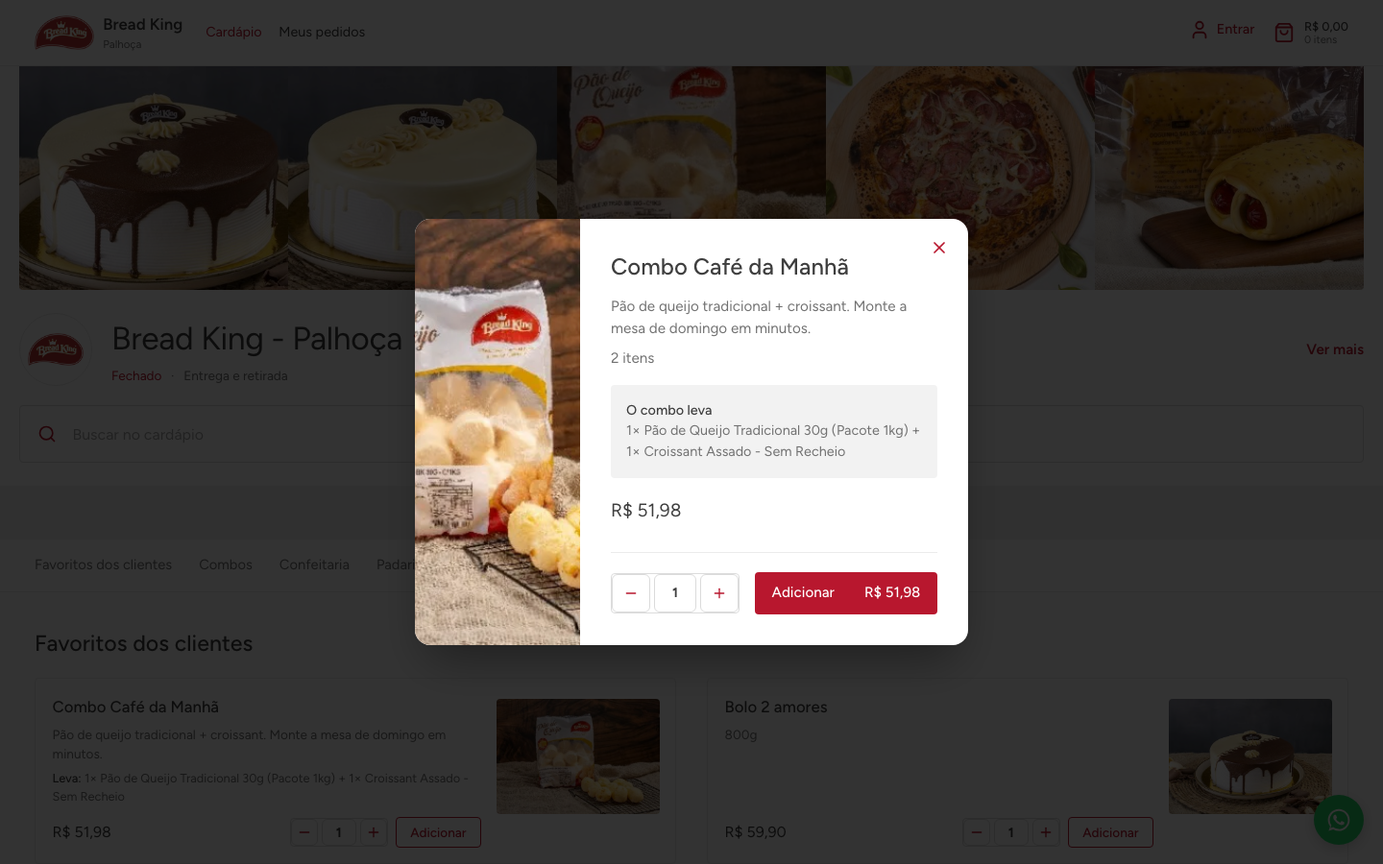
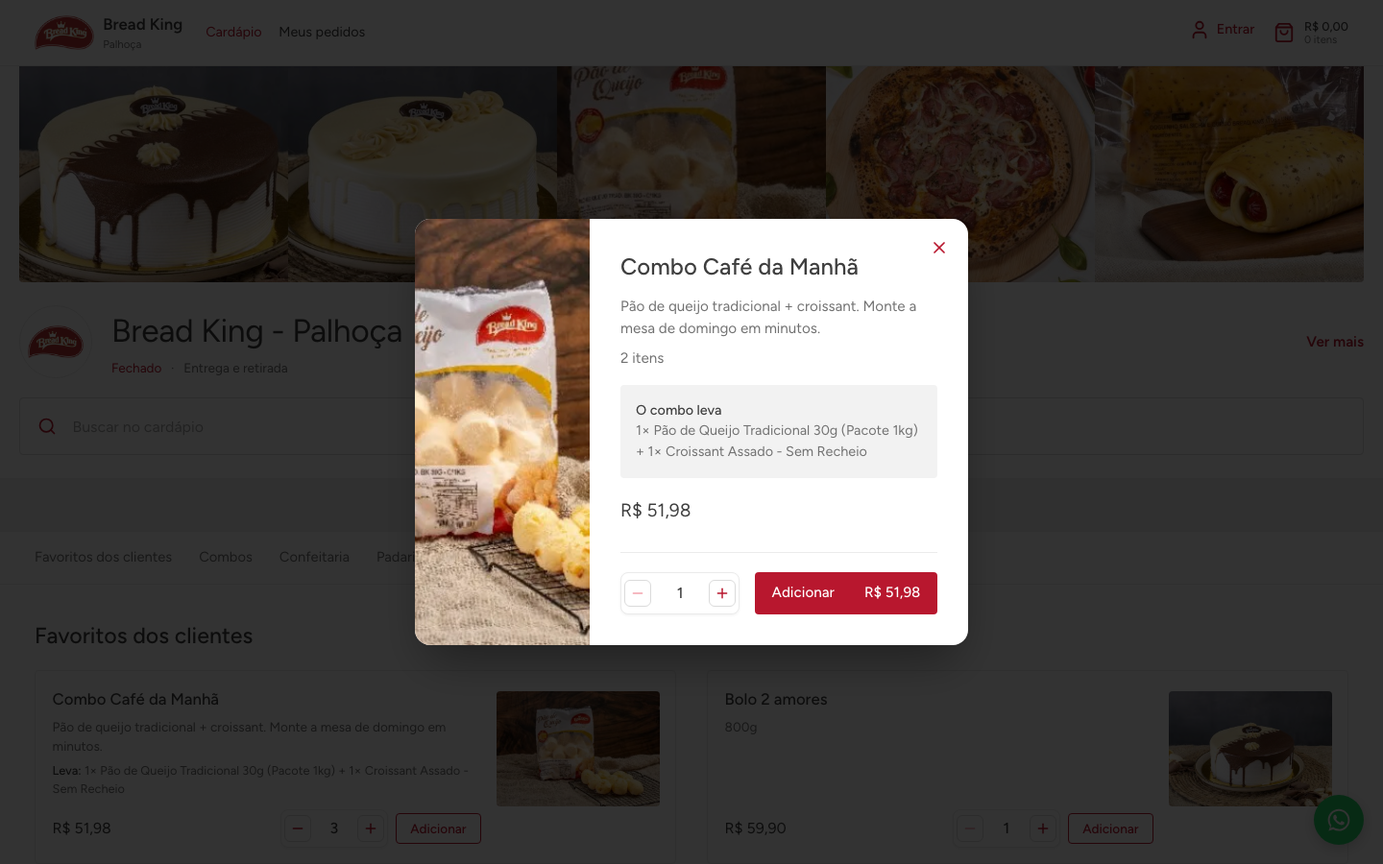
v1.7: sem pedido mínimo/estrela, stepper só com + e −, layout v2 vertical, pedido sem login com dados do cliente

diff --git a/site/js/cardapio.js b/site/js/cardapio.js
@@ -4,10 +4,20 @@
   const params = new URLSearchParams(location.search);
   const mini = (p) => p.imagem && p.imagem.startsWith("imagens/produtos/") ? p.imagem.replace("imagens/produtos/", "imagens/produtos/mini/").replace(/\.[a-z]+$/i, ".jpg") : p.imagem;
   const composicao = (p) => (p.combo && p.combo.length) ? p.combo.map((x) => { const q = BK.produto(x.id); return x.qtd + "× " + (q ? q.nome : x.id); }).join(" + ") : "";
-  const stepper = (id, v, cls) => '<div class="qtd-stepper ' + (cls || "") + '" data-stepper="' + id + '"><button type="button" aria-label="Diminuir" data-acao="menos">' + icone("minus", "h-4 w-4") + '</button><input type="number" min="1" max="99" value="' + v + '" aria-label="Quantidade" inputmode="numeric"/><button type="button" aria-label="Aumentar" data-acao="mais">' + icone("plus", "h-4 w-4") + "</button></div>";
-  const lerStepper = (el) => { const i = el.querySelector("input"); let v = Math.floor(Number(i.value) || 1); v = Math.max(1, Math.min(99, v)); i.value = v; return v; };
+  const stepper = (id, v, cls) => '<div class="qtd-stepper ' + (cls || "") + '" data-stepper="' + id + '"><button type="button" aria-label="Diminuir" data-acao="menos" class="' + (v <= 1 ? "min" : "") + '">' + icone("minus", "h-4 w-4") + '</button><span class="q" data-q="' + v + '">' + v + '</span><button type="button" aria-label="Aumentar" data-acao="mais">' + icone("plus", "h-4 w-4") + "</button></div>";
+  const lerStepper = (el) => Number(el.querySelector("[data-q]").dataset.q) || 1;
+  const setStepper = (el, v) => { v = Math.max(1, Math.min(99, v)); const s = el.querySelector("[data-q]"); s.dataset.q = v; s.textContent = v; el.querySelector('[data-acao="menos"]').classList.toggle("min", v <= 1); return v; };
+  let VERTICAL = false;
 
+  function cardVertical(p) {
+    const n = Carrinho.quantidade(p.id);
+    return '<article class="item-v" data-card="' + p.id + '"><img class="foto" alt="" loading="lazy" decoding="async" src="' + mini(p) + '" data-abrir="' + p.id + '" onerror="if(this.src.indexOf(\'/mini/\')>0){this.src=this.src.replace(\'/mini/\',\'/\');}else{imgFallback(this)}"/>' +
+      '<div class="texto"><h3 data-abrir="' + p.id + '">' + esc(p.nome) + "</h3>" + (p.descricao ? '<p class="desc" data-abrir="' + p.id + '">' + esc(p.descricao) + "</p>" : (p.peso ? '<p class="desc">' + esc(p.peso) + "</p>" : "")) + (composicao(p) ? '<p class="leva"><b>Leva:</b> ' + esc(composicao(p)) + "</p>" : "") +
+      '<div class="rodape"><span class="preco">' + moeda(p.preco).replace("\u00a0", " ") + '</span><span class="no-pedido' + (n ? "" : " hidden") + '" data-no-pedido="' + p.id + '">' + n + " no pedido</span></div>" +
+      '<div class="acoes">' + stepper(p.id, 1) + '<button type="button" class="btn-add" data-add="' + p.id + '">Adicionar</button></div></div></article>';
+  }
   function card(p) {
+    if (VERTICAL) return cardVertical(p);
     const n = Carrinho.quantidade(p.id);
     return '<article class="item" data-card="' + p.id + '"><div class="texto"><h3 data-abrir="' + p.id + '">' + esc(p.nome) + "</h3>" +
       (p.descricao ? '<p class="desc" data-abrir="' + p.id + '">' + esc(p.descricao) + "</p>" : (p.peso ? '<p class="desc">' + esc(p.peso) + "</p>" : "")) +
@@ -16,7 +26,7 @@
       '<span class="flex items-center gap-2">' + stepper(p.id, 1) + '<button type="button" class="btn-add" data-add="' + p.id + '">Adicionar</button></span></div></div>' +
       '<img class="foto" alt="" loading="lazy" decoding="async" src="' + mini(p) + '" data-abrir="' + p.id + '" onerror="if(this.src.indexOf(\'/mini/\')>0){this.src=this.src.replace(\'/mini/\',\'/\');}else{imgFallback(this)}"/></article>';
   }
-  const secao = (id, titulo, lista) => '<section class="secao scroll-mt-32" id="' + id + '" data-category="' + esc(titulo) + '"><h2>' + esc(titulo) + '</h2>' + (lista.length ? '<div class="grade">' + lista.map(card).join("") + "</div>" : '<p class="text-sm" style="color:var(--cinza)">Em breve nesta unidade.</p>') + "</section>";
+  const secao = (id, titulo, lista) => '<section class="secao scroll-mt-32" id="' + id + '" data-category="' + esc(titulo) + '"><h2>' + esc(titulo) + '</h2>' + (lista.length ? '<div class="' + (VERTICAL ? "grade-v" : "grade") + '">' + lista.map(card).join("") + "</div>" : '<p class="text-sm" style="color:var(--cinza)">Em breve nesta unidade.</p>') + "</section>";
 
   function telefoneSessao() { const s = window.Conta ? Conta.atual() : null; if (s) return s.telefone; return ((JSON.parse(localStorage.getItem("bk_cliente") || "{}") || {}).telefone) || ""; }
   function render() {
@@ -62,20 +72,20 @@
   document.addEventListener("keydown", (e) => { if (e.key === "Escape") fecharModal(); });
   function adicionar(p, q) {
     Carrinho.adicionar(p.id, q); toast("Adicionado ao pedido", p.nome + (q > 1 ? " (" + q + " un.)" : ""));
-    document.querySelectorAll('[data-card="' + p.id + '"]').forEach((w) => { const b = w.querySelector("[data-add]"); b.classList.add("ok"); b.textContent = "Adicionado"; setTimeout(() => { b.classList.remove("ok"); b.textContent = "Adicionar"; }, 1200); w.querySelector("input").value = 1; });
+    document.querySelectorAll('[data-card="' + p.id + '"]').forEach((w) => { const b = w.querySelector("[data-add]"); b.classList.add("ok"); b.textContent = "Adicionado"; setTimeout(() => { b.classList.remove("ok"); b.textContent = "Adicionar"; }, 1200); setStepper(w.querySelector("[data-stepper]"), 1); });
   }
   const atualizarSelos = () => document.querySelectorAll("[data-no-pedido]").forEach((s) => { const q = Carrinho.quantidade(s.dataset.noPedido); s.textContent = q + " no pedido"; s.classList.toggle("hidden", !q); });
 
   document.addEventListener("DOMContentLoaded", () => {
+    VERTICAL = document.body.dataset.layout === "vertical";
     render();
     const raiz = document.getElementById("categorias");
     raiz.addEventListener("click", (e) => {
-      const a = e.target.closest("[data-acao]"); if (a) { const s = a.closest("[data-stepper]"); const v = lerStepper(s); s.querySelector("input").value = Math.max(1, Math.min(99, v + (a.dataset.acao === "mais" ? 1 : -1))); return; }
+      const a = e.target.closest("[data-acao]"); if (a) { const s = a.closest("[data-stepper]"); setStepper(s, lerStepper(s) + (a.dataset.acao === "mais" ? 1 : -1)); return; }
       const add = e.target.closest("[data-add]"); if (add) { const p = BK.produto(add.dataset.add); adicionar(p, lerStepper(add.closest("[data-card]").querySelector("[data-stepper]"))); return; }
       if (e.target.closest("[data-stepper]")) return;
-      const ab = e.target.closest("[data-abrir]") || e.target.closest(".item"); if (ab) { const id = ab.dataset.abrir || ab.dataset.card; const p = BK.produto(id); if (p) abrirModal(p); }
+      const ab = e.target.closest("[data-abrir]") || e.target.closest(".item,.item-v"); if (ab) { const id = ab.dataset.abrir || ab.dataset.card; const p = BK.produto(id); if (p) abrirModal(p); }
     });
-    raiz.addEventListener("change", (e) => { if (e.target.matches("[data-stepper] input")) lerStepper(e.target.closest("[data-stepper]")); });
     const nav = document.getElementById("nav-categorias"); if (nav) nav.addEventListener("click", (e) => { const b = e.target.closest("[data-ir]"); if (!b) return; const alvo = document.getElementById(b.dataset.ir); if (alvo) { const y = alvo.getBoundingClientRect().top + window.scrollY - 130; window.scrollTo({ top: y, behavior: "smooth" }); } });
     const busca = document.getElementById("busca"); if (busca) { let t; busca.addEventListener("input", () => { clearTimeout(t); t = setTimeout(() => { termo = busca.value; render(); }, 150); }); }
     document.addEventListener("carrinho:mudou", atualizarSelos);

diff --git a/site/js/pedido.js b/site/js/pedido.js
@@ -45,11 +45,37 @@
     return L.join("\n");
   }
 
-  function mensagemSemLogin() {
-    const L = ["Olá! Quero fazer um pedido na " + U.nomeCompleto + ".", "", "Unidade: " + U.nome, "", "Pedido:"];
+  // Mensagem do pedido sem login (modelo aprovado em 13/10), com os dados do formulário rápido
+  function mensagemSemLogin(d) {
+    const entrega = d.modalidade === "entrega"; const taxa = entrega ? ((U.taxasEntrega.find((x) => x.bairro === d.bairro) || {}).taxa || 0) : 0;
+    const L = ["Olá! Quero fazer um pedido na " + U.nomeCompleto + ".", "", "Unidade: " + U.nome, "Cliente: " + d.nome, "Telefone: " + d.telefone];
+    if (entrega) { L.push("Endereço para entrega: " + d.endereco); L.push("Bairro: " + d.bairro + (taxa ? " – Taxa de entrega: " + moeda(taxa).replace("\u00a0", " ") : "")); L.push("Modalidade: Entrega"); } else L.push("Modalidade: Retirada na loja");
+    L.push("", "Pedido:");
     Carrinho.itens().forEach((i) => L.push("•  " + i.produto.nome.trim() + "  – Qtd " + i.quantidade + " – " + moeda(i.produto.preco * i.quantidade).replace("\u00a0", " ")));
-    L.push("", "Total estimado: " + moeda(Carrinho.subtotal()).replace("\u00a0", " "), "", "Vou te passar meu nome, endereço e forma de pagamento aqui no WhatsApp.");
+    L.push("", "Total estimado: " + moeda(Carrinho.subtotal() + taxa).replace("\u00a0", " "), "");
+    L.push(entrega ? "Por favor, confirme a taxa e o prazo de entrega." : "Por favor, confirme o horário para retirada.");
     return L.join("\n");
+  }
+  function abrirSemLogin() {
+    const m = document.createElement("div"); m.className = "modal-conta"; m.id = "modal-sem-login";
+    const d = Object.assign({ modalidade: "entrega" }, JSON.parse(localStorage.getItem("bk_cliente") || "{}") || {});
+    const pinta = () => {
+      const entrega = d.modalidade === "entrega";
+      m.innerHTML = '<div class="caixa"><button type="button" class="modal-fechar" data-fechar aria-label="Fechar" style="top:.6rem;right:.6rem">' + icone("x", "h-5 w-5") + '</button><h2>Pedido pelo WhatsApp</h2><p class="sub">Só o básico pra loja montar seu pedido. Pagamento e prazo você combina na conversa.</p>' +
+        '<form><div class="grid grid-cols-2 gap-2" style="margin-bottom:.8rem"><button type="button" class="btn-s ' + (entrega ? "" : "neutro") + '" data-mod="entrega">Entrega</button><button type="button" class="btn-s ' + (entrega ? "neutro" : "") + '" data-mod="retirada">Retirada</button></div>' +
+        '<label class="campo-s">Nome<input name="nome" required value="' + esc(d.nome || "") + '" autocomplete="name"/></label><label class="campo-s">Telefone (WhatsApp)<input name="telefone" required inputmode="tel" value="' + esc(d.telefone || "") + '" autocomplete="tel"/></label>' +
+        (entrega ? '<label class="campo-s">Bairro<select name="bairro" required><option value="">—</option>' + U.taxasEntrega.map((x) => '<option value="' + esc(x.bairro) + '"' + (d.bairro === x.bairro ? " selected" : "") + ">" + esc(x.bairro) + " — " + moeda(x.taxa) + "</option>").join("") + '</select></label><label class="campo-s">Endereço (rua, número, complemento)<input name="endereco" required value="' + esc(d.endereco || "") + '" autocomplete="street-address"/></label>' : "") +
+        '<p class="erro campo-s" data-erro style="display:none"></p><button class="btn-s whats"><span class="h-5 w-5">' + LOGO_WHATS + "</span>Enviar pedido no WhatsApp</button></form></div>";
+    };
+    pinta(); document.body.appendChild(m); document.body.style.overflow = "hidden";
+    const fechar = () => { m.remove(); document.body.style.overflow = ""; };
+    m.addEventListener("click", (e) => { if (e.target === m || e.target.closest("[data-fechar]")) return fechar(); const b = e.target.closest("[data-mod]"); if (b) { Object.assign(d, Object.fromEntries(new FormData(m.querySelector("form")).entries())); d.modalidade = b.dataset.mod; pinta(); } });
+    m.addEventListener("submit", (e) => {
+      e.preventDefault(); const f = Object.fromEntries(new FormData(e.target).entries()); Object.assign(d, f); d.bairro = (d.bairro || "").split(" — ")[0];
+      const erro = m.querySelector("[data-erro]"); if (!d.nome.trim() || d.telefone.replace(/\D/g, "").length < 10 || (d.modalidade === "entrega" && (!d.bairro || !d.endereco.trim()))) { erro.textContent = "Preencha nome, telefone" + (d.modalidade === "entrega" ? ", bairro e endereço." : "."); erro.style.display = "block"; return; }
+      localStorage.setItem("bk_cliente", JSON.stringify(Object.assign(JSON.parse(localStorage.getItem("bk_cliente") || "{}") || {}, { nome: d.nome, telefone: d.telefone, endereco: d.endereco || "", bairro: d.bairro || "" })));
+      window.open(linkWhats(mensagemSemLogin(d)), "_blank"); fechar(); toast("Pedido aberto no WhatsApp", "Combine pagamento e prazo com a loja.");
+    });
   }
 
   // ---------- itens ----------
@@ -219,7 +245,7 @@
         estado.cupom = c; estado.pagamento = null; toast("Cupom aplicado 🎉", "-" + c.desconto + "% com " + c.codigo); renderResumo(); return;
       }
       if (e.target.closest("[data-tirar-cupom]")) { estado.cupom = null; estado.cupomRemovido = true; estado.pagamento = null; renderResumo(); return; }
-      if (e.target.closest("[data-sem-login]")) { if (!Carrinho.totalItens()) return; window.open(linkWhats(mensagemSemLogin()), "_blank"); toast("Pedido aberto no WhatsApp", "Combine pagamento e entrega com a loja."); return; }
+      if (e.target.closest("[data-sem-login]")) { if (Carrinho.totalItens()) abrirSemLogin(); return; }
       const met = e.target.closest("[data-metodo]"); if (met) { estado.metodo = met.dataset.metodo; estado.pixEmAndamento = false; renderPagamento(); atualizarAviso(); return; }
       if (e.target.closest("[data-copiar]")) { const txt = res.querySelector("[data-pix-codigo]").textContent; (navigator.clipboard ? navigator.clipboard.writeText(txt) : Promise.reject()).then(() => toast("Código Pix copiado"), () => toast("Não deu pra copiar automaticamente", "Selecione o código e copie manualmente.", true)); return; }
       if (e.target.closest("[data-pix-pagar]")) { estado.pixEmAndamento = true; renderPagamento(); atualizarAviso(); setTimeout(() => { estado.pixEmAndamento = false; confirmarPagamento("Pix"); }, (U.pagamento.segundosPix || 4) * 1000); return; }

diff --git a/site/estilos/tema.css b/site/estilos/tema.css
@@ -86,11 +86,12 @@ h1,h2,h3,h4,h5,h6{font-family:Figtree,system-ui,sans-serif;letter-spacing:0;font
 .item .preco{font-size:1rem;font-weight:400;color:var(--texto)}
 .item .foto{width:170px;height:120px;flex-shrink:0;border-radius:4px;object-fit:cover;background:var(--faixa);align-self:flex-start;margin-top:.35rem}
 @media(max-width:640px){.item{min-height:0;padding:.9rem}.item .foto{width:96px;height:96px}}
-.qtd-stepper{display:inline-flex;align-items:center;border:1px solid var(--linha);border-radius:4px;overflow:hidden}
-.qtd-stepper button{height:30px;width:30px;border:0;background:#fff;color:var(--vermelho);display:inline-flex;align-items:center;justify-content:center;cursor:pointer}
+.qtd-stepper{display:inline-flex;align-items:center;justify-content:space-between;width:112px;height:40px;border:1px solid var(--linha-suave);border-radius:8px;background:#fff;box-shadow:0 1px 3px rgba(0,0,0,.06);padding:0 .2rem;user-select:none}
+.qtd-stepper button{height:34px;width:34px;border:0;background:transparent;color:var(--vermelho);display:inline-flex;align-items:center;justify-content:center;cursor:pointer;border-radius:6px}
 .qtd-stepper button:hover{background:var(--faixa)}
-.qtd-stepper input{width:34px;height:30px;text-align:center;font-size:.9rem;border:0;border-left:1px solid var(--linha-suave);border-right:1px solid var(--linha-suave);font-family:inherit;color:var(--texto);-moz-appearance:textfield}
-.qtd-stepper input::-webkit-outer-spin-button,.qtd-stepper input::-webkit-inner-spin-button{-webkit-appearance:none;margin:0}
+.qtd-stepper button.min{color:#f3a3ad;cursor:default}.qtd-stepper button.min:hover{background:transparent}
+.qtd-stepper button svg{width:16px;height:16px;stroke-width:2.2}
+.qtd-stepper .q{min-width:26px;text-align:center;font-size:1rem;color:var(--texto);font-weight:500}
 .btn-add{height:32px;padding:0 .9rem;border-radius:4px;border:1px solid var(--vermelho);background:#fff;color:var(--vermelho);font-weight:500;font-size:.85rem;cursor:pointer;font-family:inherit;transition:all .15s;white-space:nowrap}
 .btn-add:hover{background:var(--vermelho);color:#fff}
 .btn-add.ok{background:#2f7d45;border-color:#2f7d45;color:#fff}
@@ -109,7 +110,7 @@ h1,h2,h3,h4,h5,h6{font-family:Figtree,system-ui,sans-serif;letter-spacing:0;font
 .modal-info .leva{margin-top:1rem;padding:1rem;background:var(--faixa);border-radius:4px;font-size:.9rem;color:var(--cinza)}
 .modal-info .leva b{color:var(--texto);font-weight:500}
 .modal-acoes{display:flex;align-items:center;gap:1rem;margin-top:1.75rem;border-top:1px solid var(--linha-suave);padding-top:1.25rem}
-.modal-acoes .qtd-stepper button{height:40px;width:40px}.modal-acoes .qtd-stepper input{height:40px;width:44px}
+.modal-acoes .qtd-stepper{height:44px;width:124px}
 .btn-confirmar{flex:1;min-width:190px;white-space:nowrap;height:44px;border-radius:4px;border:0;background:var(--vermelho);color:#fff;font-weight:500;font-size:.95rem;cursor:pointer;font-family:inherit;display:flex;align-items:center;justify-content:space-between;padding:0 1.1rem}
 .btn-confirmar:hover{background:#a3162a}
 .modal-fechar{position:absolute;right:.75rem;top:.75rem;z-index:2;width:36px;height:36px;border-radius:999px;border:0;background:#fff;color:var(--vermelho);display:flex;align-items:center;justify-content:center;cursor:pointer}
@@ -183,3 +184,20 @@ body:has(#barra-carrinho) .whats-flutuante{bottom:5.5rem}
 .barra-progresso{height:6px;border-radius:999px;background:var(--faixa);overflow:hidden}.barra-progresso i{display:block;height:100%;background:var(--vermelho)}
 .item .preco{white-space:nowrap}
 @media(max-width:640px){.item .rodape{flex-wrap:wrap}.item .rodape>span:last-child{margin-left:auto}}
+
+/* ---------- layout v2: cards verticais em grade (4 no computador, 2 no celular) ---------- */
+.grade-v{display:grid;grid-template-columns:repeat(4,1fr);gap:1.25rem}
+@media(max-width:1100px){.grade-v{grid-template-columns:repeat(3,1fr)}}
+@media(max-width:760px){.grade-v{grid-template-columns:repeat(2,1fr);gap:.75rem}}
+.item-v{display:flex;flex-direction:column;border:1px solid var(--linha-suave);border-radius:4px;background:#fff;overflow:hidden;cursor:pointer;transition:border-color .15s}
+.item-v:hover{border-color:var(--linha)}
+.item-v .foto{width:100%;aspect-ratio:1/1;object-fit:cover;background:var(--faixa)}
+.item-v .texto{display:flex;flex-direction:column;flex:1;padding:.9rem 1rem 1rem}
+.item-v h3{font-size:1rem;font-weight:500;color:var(--texto);line-height:1.3;margin:0 0 .35rem}
+.item-v .desc{font-size:.82rem;color:var(--cinza);line-height:1.4;display:-webkit-box;-webkit-line-clamp:2;-webkit-box-orient:vertical;overflow:hidden}
+.item-v .leva{font-size:.78rem;color:var(--cinza);margin-top:.3rem}.item-v .leva b{color:var(--texto);font-weight:500}
+.item-v .rodape{margin-top:auto;display:flex;align-items:center;justify-content:space-between;padding-top:.75rem}
+.item-v .preco{font-size:1rem;color:var(--texto);white-space:nowrap}
+.item-v .acoes{display:flex;align-items:center;justify-content:space-between;gap:.5rem;margin-top:.6rem}
+.item-v .btn-add{flex:1;height:40px}
+@media(max-width:760px){.item-v .texto{padding:.7rem .75rem .8rem}.item-v h3{font-size:.9rem}.item-v .acoes{flex-direction:column;align-items:stretch}.item-v .qtd-stepper{width:100%}.item-v .btn-add{width:100%}}

diff --git a/site/js/comum.js b/site/js/comum.js
@@ -98,7 +98,7 @@
       '<h4>Endereço</h4><p>' + esc(U.endereco) + '<br/>' + esc(U.bairro) + ' · ' + esc(U.cidade) + '</p><p><a class="text-primary font-semibold" href="' + U.mapa + '" target="_blank" rel="noopener">Ver no mapa</a></p>' +
       '<h4>Redes sociais</h4><p><a class="inline-flex items-center gap-2 text-primary font-semibold" href="' + esc(U.instagram) + '" target="_blank" rel="noopener">' + icone("instagram", "h-4 w-4") + esc(U.instagramUsuario || "Instagram") + '</a></p>' +
       '<h4>Contato</h4><p><a class="inline-flex items-center gap-2" href="' + linkWhats() + '" target="_blank" rel="noopener"><span class="h-4 w-4" style="color:#25D366">' + LOGO_WHATS + '</span>WhatsApp ' + esc(U.whatsappFormatado) + '</a></p>' +
-      '<h4>Outras informações</h4><p>CNPJ: ' + esc(U.cnpj || "—") + '</p><p>Pedido mínimo: ' + moeda(U.pedidoMinimo || 0) + '</p>';
+      '<h4>Outras informações</h4><p>CNPJ: ' + esc(U.cnpj || "—") + '</p>';
     const horario = '<table class="horarios">' + DIAS.map((d, i) => '<tr class="' + (i === hoje ? "hoje" : "") + '"><td>' + (i === hoje ? icone("clock", "inline h-3.5 w-3.5 mr-1 text-primary") : "") + d + "</td><td>" + fmtFaixas((U.horarios || {})[i]) + "</td></tr>").join("") + "</table>";
     f.innerHTML = '<div class="gaveta-loja" role="dialog" aria-modal="true"><button class="fechar" aria-label="Fechar" data-fechar>' + icone("x", "h-6 w-6") + '</button>' +
       '<div class="abas"><button data-aba="sobre" class="' + (aba !== "horario" ? "on" : "") + '">Sobre</button><button data-aba="horario" class="' + (aba === "horario" ? "on" : "") + '">Horário</button></div>' +
@@ -114,9 +114,9 @@
 
   // ---------- hero da loja ----------
   window.renderHeroLoja = function (el) {
-    const st = estaAberto(); const m = BK.mediaAvaliacoes();
+    const st = estaAberto();
     el.innerHTML = '<div class="container mx-auto px-4 loja-hero"><img class="loja-banner" src="' + esc(U.banner || "imagens/marca/banner-loja.jpg") + '" alt=""/>' +
-      '<div class="loja-cab"><div class="loja-logo"><img src="imagens/marca/logo-bread-king.png" alt="Bread King"/></div><div><h1 class="loja-nome">' + esc(U.nomeCompleto.replace("Bread King ", "Bread King - ")) + '<span class="selo" title="Loja oficial">' + icone("star", "fill-current") + "</span>" + (m ? '<span class="nota">★ ' + m.media.toFixed(1) + "</span>" : "") + "</h1>" +
+      '<div class="loja-cab"><div class="loja-logo"><img src="imagens/marca/logo-bread-king.png" alt="Bread King"/></div><div><h1 class="loja-nome">' + esc(U.nomeCompleto.replace("Bread King ", "Bread King - ")) + "</h1>" +
       '<div class="loja-meta"><span class="' + (st.aberto ? "aberto" : "fechado") + '">' + (st.aberto ? "Aberto · fecha às " + st.fecha : "Fechado" + (st.abre ? " · abre às " + st.abre : "")) + "</span><span>·</span><span>Entrega e retirada</span></div></div>" +
       '<div class="loja-acoes"><button class="btn-vermais" data-ver-mais="sobre">Ver mais</button></div></div>' +
       '<div class="loja-busca">' + icone("search") + '<input id="busca" type="search" placeholder="Buscar no cardápio"/></div></div><div class="faixa-cinza"></div>';

diff --git a/site/index-v2.html b/site/index-v2.html
@@ -1,0 +1,18 @@
+<!doctype html>
+<html lang="pt-BR">
+<head>
+<meta charset="UTF-8"/><meta name="viewport" content="width=device-width, initial-scale=1.0"/><meta name="author" content="Bread King Palhoça"/><link rel="icon" type="image/png" href="imagens/marca/logo-bread-king.png"/><link rel="stylesheet" href="estilos/fontes.css"/><link rel="stylesheet" href="estilos/referencia.css"/><link rel="stylesheet" href="estilos/tema.css"/><link rel="stylesheet" href="estilos/extra.css"/><script src="dados/unidade.js"></script><script src="dados/catalogo.js"></script><script src="js/banco.js"></script><script src="js/icones.js"></script><script src="js/comum.js"></script><script src="js/conta.js"></script>
+<title>Bread King Palhoça · Cardápio (v2)</title>
+<meta name="description" content="Cardápio da Bread King Palhoça. Pães, salgados, pizzas e confeitaria congelados, prontos em minutos. Peça no site."/>
+<script src="js/cardapio.js"></script>
+</head>
+<body data-layout="vertical">
+<header id="topo"></header>
+<main>
+  <div id="hero-loja"></div>
+  <div class="nav-cats"><div id="nav-categorias" class="container mx-auto trilho"></div></div>
+  <div class="container mx-auto px-4" id="categorias"></div>
+</main>
+<footer></footer>
+</body>
+</html>

diff --git a/site/dados/unidade.js b/site/dados/unidade.js
@@ -12,8 +12,6 @@ window.UNIDADE = {
   horarios: { 0: ["08:00-20:00"], 1: ["08:00-20:00"], 2: ["08:00-20:00"], 3: ["08:00-20:00"], 4: ["08:00-20:00"], 5: ["08:00-20:00"], 6: ["08:00-20:00"] },
   razaoSocial: "BREAD KING PALHOÇA ALIMENTOS LTDA",   // provisório
   cnpj: "00.000.000/0001-00",                           // provisório
-  pedidoMinimo: 20.00,
-  avaliacao: null,                                      // ex.: 4.8 quando houver avaliações
   banner: "imagens/marca/banner-loja.jpg",              // trocar pela foto da loja/produtos (1180x250 ou proporção parecida)
   sobre: "A primeira padaria de supercongelados do Brasil. Pães, salgados, pizzas e confeitaria que você assa em casa e ficam perfeitos em minutos.",
   mapa: "https://www.google.com/maps/search/?api=1&query=Av.+At%C3%ADlio+Pedro+Pagani%2C+1275+-+Pagani%2C+Palho%C3%A7a+-+SC",

diff --git a/scripts/testar_clone.py b/scripts/testar_clone.py
@@ -12,12 +12,16 @@ def roda(nome, launcher, fotos):
     snap("1-cardapio"); rolar(pg); snap("1b-cardapio-full", full_page=True)
     print(nome,"fonte:", pg.evaluate("()=>getComputedStyle(document.body).fontFamily.split(',')[0]"), "| seções:", pg.locator("[data-category]").count(), "| itens:", pg.locator(".item").count())
     pg.click("[data-ver-mais]"); time.sleep(.5); snap("2-vermais"); print(nome,"instagram no ver mais:", pg.locator(".gaveta-loja a[href*='instagram']").count()); pg.keyboard.press("Escape"); time.sleep(.3)
+    pg.locator('[data-acao="mais"]').first.click(); pg.locator('[data-acao="mais"]').first.click(); print(nome,"stepper no card:", pg.locator("[data-q]").first.inner_text(), "| input editável?", pg.locator("[data-stepper] input").count())
     pg.locator(".item").first.click(); time.sleep(.5); snap("3-modal"); pg.click("[data-madd]"); time.sleep(.4)
+    pg.goto((SITE/"index-v2.html").as_uri(), wait_until="domcontentloaded"); time.sleep(1.5); snap("1c-v2"); print(nome,"v2 cards verticais:", pg.locator(".item-v").count(), "| estrela/nota no hero:", pg.locator(".loja-nome .selo, .loja-nome .nota").count(), "| pedido mínimo:", pg.locator("text=Pedido mínimo").count())
+    pg.goto((SITE/"index.html").as_uri(), wait_until="domcontentloaded"); time.sleep(1.2)
     pg.locator("[data-add]").nth(3).click(); time.sleep(.3)
     pg.click("#link-carrinho"); time.sleep(1.2); snap("4-pedido-sem-login", full_page=True)
     # pedido sem login -> whatsapp
-    pg.evaluate("()=>{window.__urls=[];window.open=(u)=>{window.__urls.push(u);return null;}}"); pg.click("[data-sem-login]"); time.sleep(.3)
-    from urllib.parse import unquote; u=pg.evaluate("()=>window.__urls"); print(nome,"sem login ->", (unquote(u[0]).split("text=")[1].replace("\n"," | ")[:140] if u else "NADA"))
+    pg.evaluate("()=>{window.__urls=[];window.open=(u)=>{window.__urls.push(u);return null;}}"); pg.click("[data-sem-login]"); time.sleep(.4); snap("4b-sem-login-form")
+    pg.fill('#modal-sem-login [name="nome"]',"Maria Teste"); pg.fill('#modal-sem-login [name="telefone"]',"48999990000"); pg.select_option('#modal-sem-login [name="bairro"]',"Pagani"); pg.fill('#modal-sem-login [name="endereco"]',"Rua das Flores, 10"); pg.click("#modal-sem-login form .btn-s.whats"); time.sleep(.4)
+    from urllib.parse import unquote; u=pg.evaluate("()=>window.__urls"); print(nome,"sem login ->", (unquote(u[0]).split("text=")[1].replace("\n"," | ")[:260] if u else "NADA"))
     # criar conta
     pg.click('[data-abrir-login="criar"]'); time.sleep(.4); snap("5-criar-conta")
     pg.fill('[data-form="criar"] [name="nome"]',"Teste Clone"); pg.fill('[data-form="criar"] [name="telefone"]',"48988475389"); pg.fill('[data-form="criar"] [name="cpf"]',"52998224725"); pg.fill('[data-form="criar"] [name="email"]',"teste@exemplo.com"); pg.fill('[data-form="criar"] [name="senha"]',"1234"); pg.click('[data-form="criar"] .btn-s'); time.sleep(.8)
@@ -43,7 +47,7 @@ def roda(nome, launcher, fotos):
     pg.click('[data-tela="segmentos"]'); time.sleep(.5); pg.click("text=Mulheres 25 a 45"); time.sleep(.5); print(nome,"mulheres 25-45:", pg.locator("h3").filter(has_text="no público").inner_text()); snap("13-admin-seg-genero", full_page=True)
     pg.click('[data-tela="clientes"]'); time.sleep(.5); snap("14-admin-clientes")
     m=b.new_context(viewport={"width":390,"height":844},device_scale_factor=2,is_mobile=True); mp=m.new_page(); mp.goto((SITE/"index.html").as_uri(), wait_until="domcontentloaded"); time.sleep(1.5)
-    if fotos: mp.screenshot(path=str(OUT/(pre+"15-mobile.png"))); mp.locator(".item").first.click(); time.sleep(.5); mp.screenshot(path=str(OUT/(pre+"16-mobile-modal.png")))
+    if fotos: mp.screenshot(path=str(OUT/(pre+"15-mobile.png"))); mp.goto((SITE/"index-v2.html").as_uri(), wait_until="domcontentloaded"); time.sleep(1.5); mp.evaluate("()=>window.scrollTo(0,700)"); time.sleep(.5); mp.screenshot(path=str(OUT/(pre+"16-mobile-v2.png")))
     b.close(); print(nome,"ERROS:", erros if erros else "nenhum")
 with sync_playwright() as p:
     roda("chromium", p.chromium, True)

diff --git a/site/README.md b/site/README.md
@@ -9,6 +9,7 @@ clientes, configurações) fica no `localStorage` do navegador: é a simulação
 
 | Arquivo | O que é |
 |---|---|
+| `index-v2.html` | Mesmo cardápio com **cards verticais em grade**: 4 por linha no computador, 2 no celular. Alternativa pra Júlia escolher. |
 | `index.html` | **Página principal: o cardápio.** Hero estilo app de delivery (banner, logo, aberto/fechado, Ver mais com Sobre e Horário, pedido mínimo), busca, "Recomendados pra você" (só pra quem já pediu), "Mais pedidos" e as 7 categorias com "Ver todos". |
 | `categoria.html?c=Padaria` | Grade completa de uma categoria (ou `c=mais-pedidos`, `c=recomendados`). |
 | `pedido.html` | Carrinho, Entrega (bairro + taxa) ou Retirada, dados, cupom, pagamento simulado (Pix ou cartão). Ao aprovar, cria o pedido e vai pro acompanhamento. |
@@ -21,7 +22,7 @@ clientes, configurações) fica no `localStorage` do navegador: é a simulação
 
 - Pra pagar no site é preciso **entrar ou criar conta** (nome, telefone, e-mail, **CPF e senha**). A conta guarda o carrinho, o acompanhamento e o histórico mesmo trocando de aba.
 - **SITE10**: 10% OFF na primeira compra pelo site, aplicado sozinho pra quem tem conta (o cliente pode trocar por outro cupom).
-- **Fazer pedido sem login**: botão no fim do carrinho que abre o WhatsApp da loja com os itens e o total, como no site original. Pagamento e entrega são combinados na conversa.
+- **Fazer pedido sem login**: botão no fim do carrinho. Abre um formulário rápido (nome, telefone, entrega ou retirada, bairro e endereço) e manda pro WhatsApp da loja a mensagem no modelo aprovado, com os itens, a taxa do bairro e o total. Pagamento e prazo são combinados na conversa.
 - **CADASTRO5**: ao completar o cadastro (nascimento, gênero, endereço, bairro, como conheceu, preferências) o cliente ganha um voucher de 5%, uma vez.
 - Simulação: contas e senhas ficam no `localStorage` do navegador, sem criptografia. Em produção isso vira backend com senha protegida e LGPD.
 

diff --git a/escopo.md b/escopo.md
@@ -1,8 +1,10 @@
 # Escopo — Sistema de delivery web Bread King (franqueados)
 
-**Versão:** 1.6 · **Data:** 13/10/2026 · **Dona do projeto:** Júlia y Castro (Y OS)
+**Versão:** 1.7 · **Data:** 13/10/2026 · **Dona do projeto:** Júlia y Castro (Y OS)
 **Referência visual e funcional:** breadkingsaopaulo.com.br (levantamento em `referencia/levantamento-site-atual.md`)
 **Primeira unidade:** Palhoça (SC) · **WhatsApp de teste:** +55 48 98847-5389
+
+Mudanças da v1.6 → v1.7: sem pedido mínimo e sem estrela no hero; seletor de quantidade só com + e −; `index-v2.html` com cards verticais em grade (4/2 por linha); pedido sem login pede nome, telefone e endereço antes de abrir o WhatsApp.
 
 Mudanças da v1.5 → v1.6 (insights da Júlia, 13/10 à noite): visual minimalista estilo iFood
 (Figtree, cards horizontais, sem subtítulos); conta do cliente com CPF e senha pra comprar no
